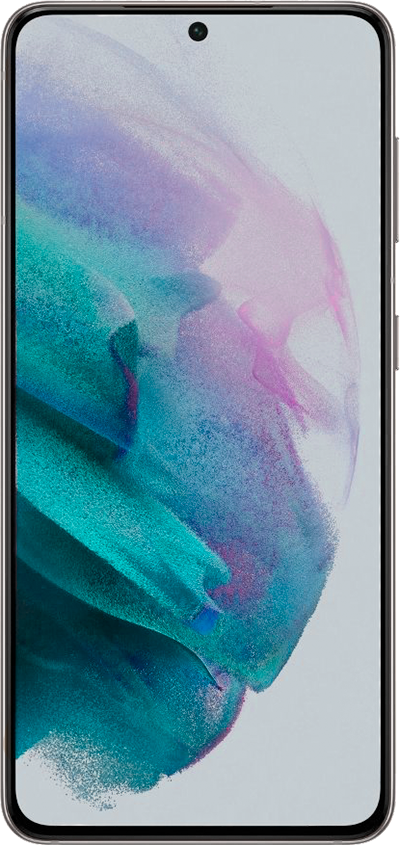
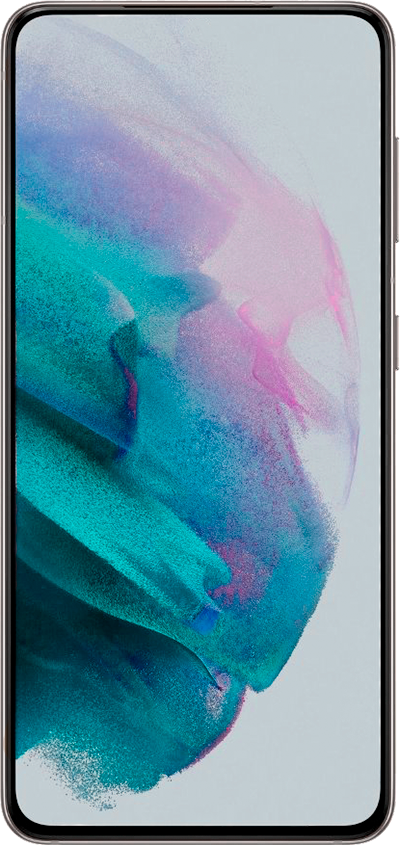
atualizei a tela

diff --git a/index.html b/index.html
@@ -13,7 +13,7 @@
             <iframe src="" frameborder="0" name="tela" id="tela">Seu navegador não é compatível com isso.</iframe>
         </section>
         <section id="redes-sociais">
-            <a href="" target=""><img src="imagens/logo-home.jpg" alt="Home"></a> <br>
+            <a href="home.html" target="tela"><img src="imagens/logo-home.jpg" alt="Home"></a> <br>
             <a href="github.html" target="tela"><img src="imagens/logo-github.jpg" alt="GitHub"></a> <br>
         </section>
     </main>

diff --git a/home.html b/home.html
@@ -12,8 +12,9 @@
         body {
             height: 100vh;
             width: 100vw;
-            background: black url('/imagens/tela-home.jpg') no-repeat top center;
-            background-size: cover;
+            background: black url('/imagens/tela-home-samsung.png') no-repeat top center;
+            background-size:cover ;
+
         }
     </style>
 </head>
